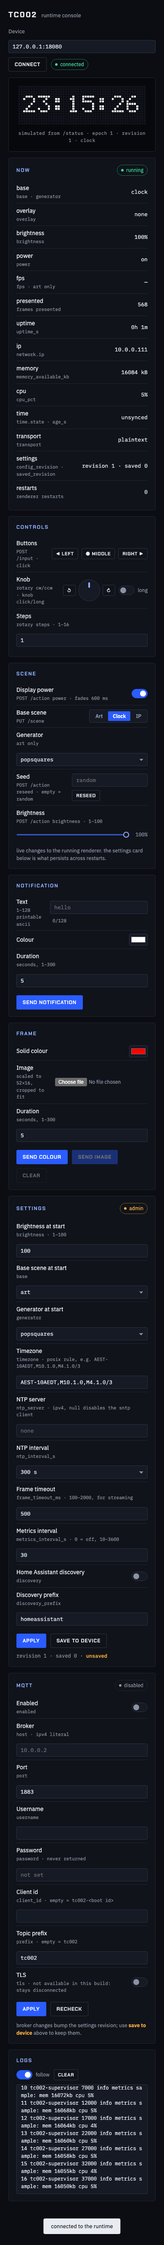
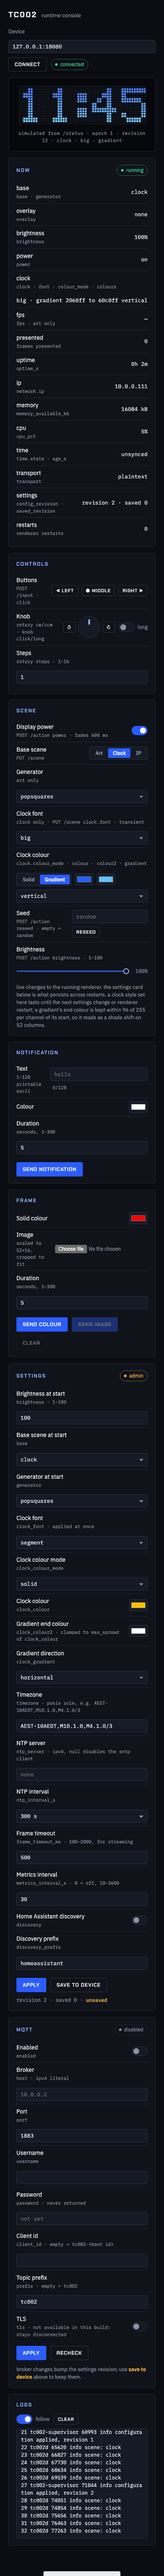
panel-v2: docs and screenshots for the clock styles
Claude-Session: https://claude.ai/code/session_0154EZ6adqhZyrJZmuD4WZcY

diff --git a/README.md b/README.md
@@ -35,7 +35,7 @@ tools:
 | [`led/`](led/) | popsquares generative art running on the device at 60 fps, straight to the panel over spi — static armv7 binary built with zig, plus an adb start/stop wrapper |
 | [`led-zig/`](led-zig/) | full-parity idiomatic zig renderer with typed modules, colocated tests, native dry-run, static armv7 build, and adb wrapper |
 | [`runtime/`](runtime/) | the custom runtime: a supervisor, a renderer (popsquares, plasma, clock, ip, notifications, raw frames, buttons and knob) and an unprivileged network daemon with a bearer-authenticated `/api/v1` and an mqtt client with home-assistant discovery, plus the bootstrap the vendor loader runs and a memory-audit tool. zig 0.16, static armv7, no libc, volatile under `/tmp`. reference in [`RUNTIME.md`](RUNTIME.md) |
-| [`panel-v2/`](panel-v2/) | the same idea for the custom runtime in [`RUNTIME.md`](RUNTIME.md): a local proxy that holds the api tokens and a page that drives scenes, notifications, frames, settings, mqtt, remote presses, display power and the log ring, with a live 52×16 preview from `/screen` (simulated against the mock) |
+| [`panel-v2/`](panel-v2/) | the same idea for the custom runtime in [`RUNTIME.md`](RUNTIME.md): a local proxy that holds the api tokens and a page that drives scenes, clock fonts and colours, notifications, frames, settings, mqtt, remote presses, display power and the log ring, with a live 52×16 preview from `/screen` (simulated against the mock) |
 
 related: [pixdeck](https://github.com/cailurus/PixDeck) is a working stock-firmware
 client for the custom-app protocol over both http and mqtt — its `pixbar_core.py`
@@ -109,21 +109,24 @@ to pick the device when several are attached. the preview is the live frame
 from `/screen` when the runtime offers that route (exact, as shown after
 fades, before brightness); against `mock-device.py` and older builds without
 it, the page falls back to a simulation of the runtime's status (its own
-font, layout and generators ported to javascript), so the clock and ip are
-exact, notifications and frames are exact only when this page sent them
+font, clock fonts, gradients, layout and generators ported to javascript),
+so the clock and ip are exact, notifications and frames are exact only when this page sent them
 (otherwise they are shown as unknown), and the art shows the same algorithm
 with a local seed. the controls card drives the physical buttons, knob and
 rotary remotely through `/input`; the scene card's power switch fades the
-display through `/action`; and the logs card follows the runtime's log ring
-through `/logs`. `mock-device.py` is a stand-in for developing without a
+display through `/action`; the scene card also sets a transient
+[clock style](RUNTIME.md#clock-styles) (font, solid or gradient colours)
+while the settings card holds the durable one; and the logs card follows
+the runtime's log ring through `/logs`. `mock-device.py` is a stand-in for developing without a
 device.
 
-![the panel-v2 console: a simulated clock preview above cards for status, remote controls, scene, notifications, frames, settings, mqtt and the log ring](panel-v2/screenshots/console.png)
+![the panel-v2 console: a simulated clock preview in the big font with a blue gradient, above cards for status, remote controls, scene and clock style, notifications, frames, settings, mqtt and the log ring](panel-v2/screenshots/console.png)
 
 <img src="panel-v2/screenshots/console-narrow.png" width="330" alt="the panel-v2 console at phone width, stacked into a single column">
 
 (screenshots are against `mock-device.py` in the clock scene with timezone
-`AEST-10AEDT,M10.1.0,M4.1.0/3` applied, not a real device.)
+`AEST-10AEDT,M10.1.0,M4.1.0/3` applied and a transient `big` font with a
+vertical gradient, not a real device.)
 
 **adopt a factory-fresh device**
 

diff --git a/RUNTIME.md b/RUNTIME.md
@@ -584,8 +584,9 @@ tools/tc002-run.sh stop
 
 the english web control panel in [`panel/`](panel/) talks to the **stock**
 api; [`panel-v2/`](panel-v2/) is the same idea for this api, with a local
-proxy that holds the tokens and a live preview from `/screen` (simulated
-against the mock).
+proxy that holds the tokens, the transient and durable
+[clock styles](#clock-styles) and a live preview from `/screen` (simulated
+against the mock, fonts and gradients included).
 
 ## memory audits
 
